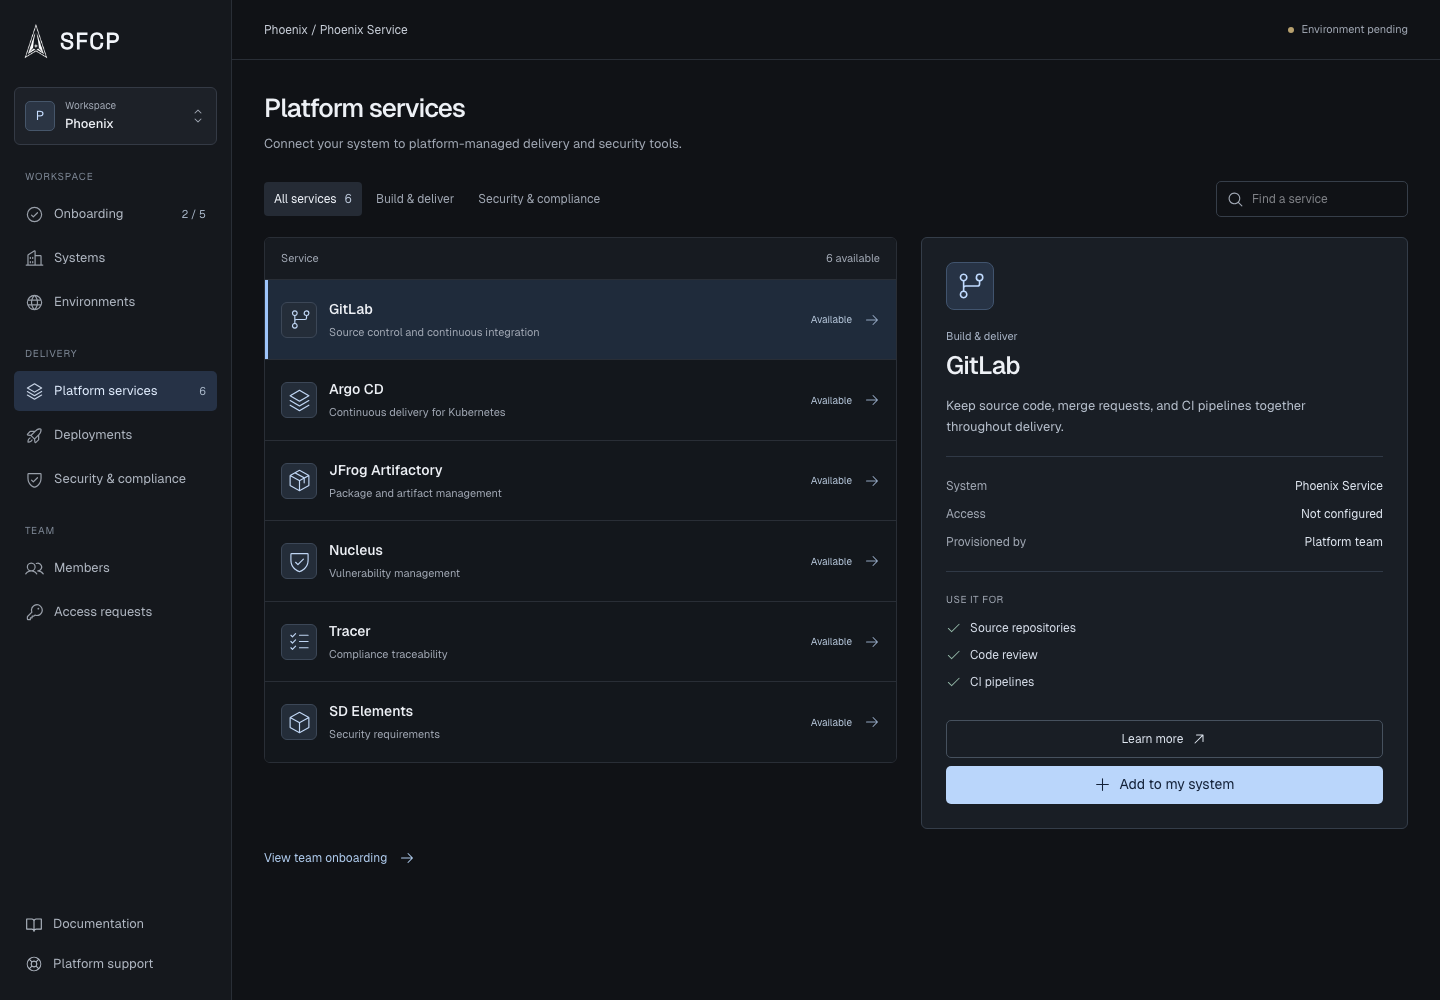
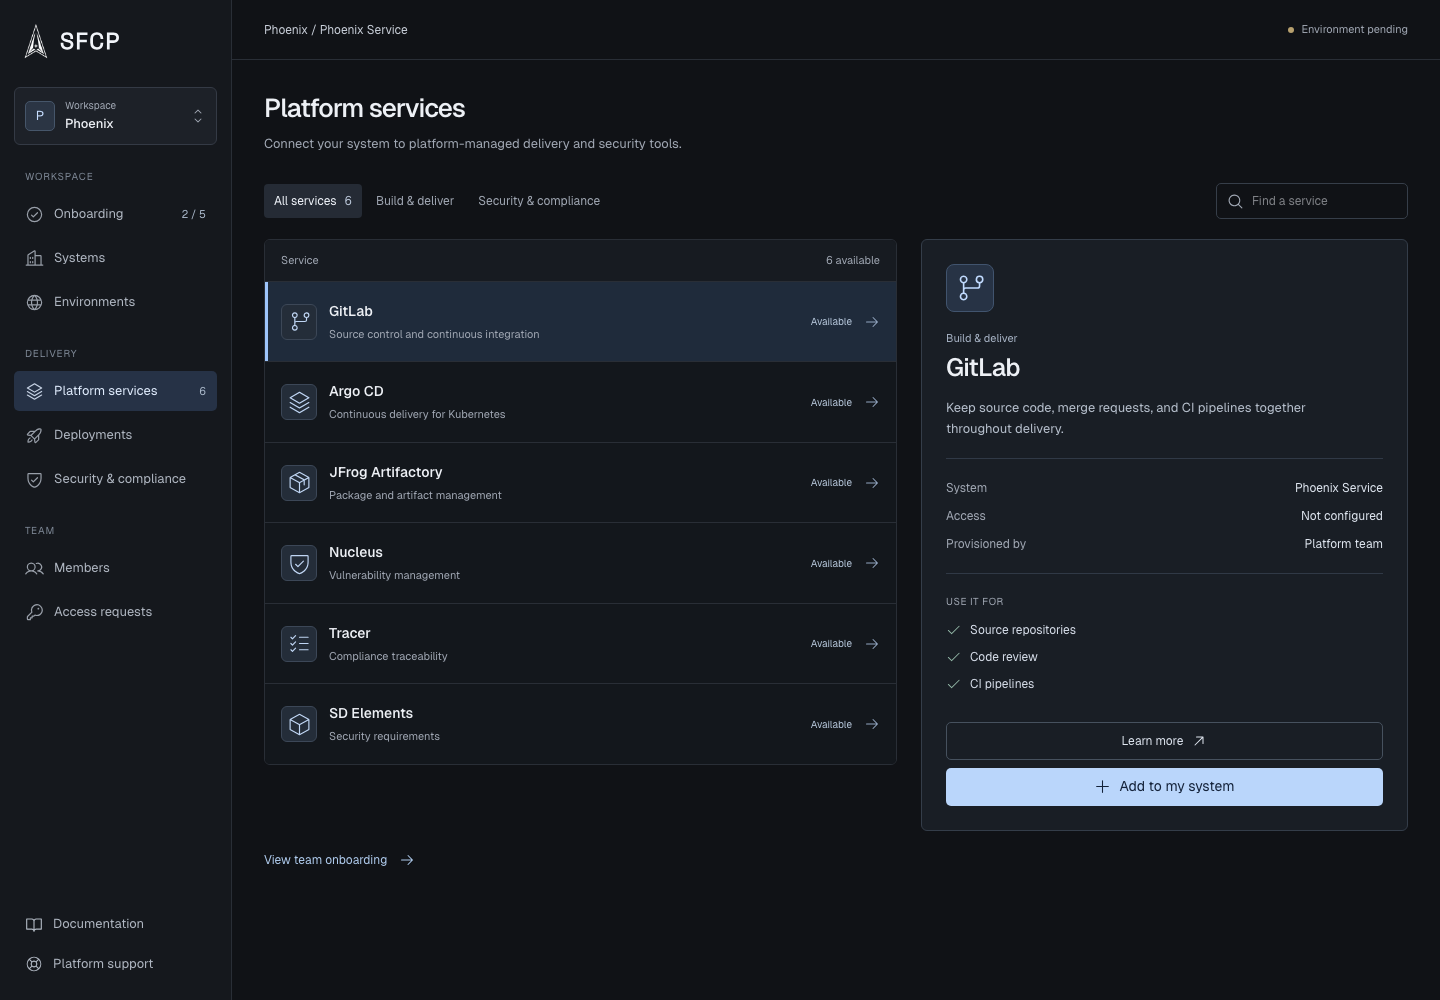
Simplify SFCP onboarding layout

diff --git a/src/components/studies/space-force.tsx b/src/components/studies/space-force.tsx
@@ -88,7 +88,7 @@ export function SpaceForceStudy({ screen }: { screen: string }) {
 
         <main id="main" className={styles.content}>
           <div className={styles.pageTitle}>
-            <div><h1>{isServices ? "Platform services" : "Team onboarding"}</h1><p>{isServices ? "Connect your system to platform-managed delivery and security tools." : "Track access, approval, and provisioning for Phoenix Service."}</p></div>
+            <div><h1>{isServices ? "Platform services" : "Team onboarding"}</h1>{isServices && <p>Connect your system to platform-managed delivery and security tools.</p>}</div>
           </div>
 
           {isServices ? (
@@ -127,7 +127,7 @@ export function SpaceForceStudy({ screen }: { screen: string }) {
             <>
               <div className={styles.onboardingLayout}>
               <section className={styles.journey} aria-label="Onboarding stages">
-                <div className={styles.journeyHeader}><strong>Onboarding</strong><span>2 of 5 complete</span></div>
+                <div className={styles.journeyHeader}><span>2 of 5 steps complete</span></div>
                 <div className={styles.stageTrack}>
                   {stages.map((stage, index) => <button key={stage.name} onClick={() => setSelectedStage(index)} aria-label={`${stage.name}: ${stage.state}`} aria-current={index === 2 ? "step" : undefined} aria-pressed={selectedStage === index} className={`${styles.stage} ${index < 2 ? styles.stageComplete : ""} ${index === 2 ? styles.stageCurrent : ""} ${selectedStage === index ? styles.stageSelected : ""}`}><span className={styles.stageRail} /><span className={styles.stageNumber}>{index < 2 ? <Check size={14} weight="bold" /> : index + 1}</span><strong>{stage.name}</strong><span className={styles.stageState}>{stage.state}</span></button>)}
                 </div>

diff --git a/src/components/studies/space-force.module.css b/src/components/studies/space-force.module.css
@@ -33,3 +33,7 @@
 @media(max-width:650px){.navigation{display:grid;grid-template-columns:1fr 1fr}.navLabel{grid-column:1/-1}.supportNav{grid-column:1/-1;padding-top:0;display:flex}.brand>span:last-child{font-size:20px}}
 
 @font-face{font-family:"SFCP Brand";src:url("/fonts/space-grotesk.ttf") format("truetype");font-weight:400;font-display:swap}.brand>span:last-child{font-family:"SFCP Brand",sans-serif;font-weight:700;font-size:23px;letter-spacing:.065em}.navigation svg{flex-shrink:0}.navCount{flex-shrink:0}
+
+/* Align the step label with its marker, leaving the state on a second row. */
+.journey{padding:4px 0;border:0;border-radius:0;background:transparent}.journeyHeader{padding:0 4px;margin-bottom:20px}.stage{grid-template-rows:24px auto;align-content:start;row-gap:0;min-height:82px;background:none;border:0;color:inherit}.stageNumber{grid-column:1;grid-row:1;background:#101216}.stage strong{grid-column:2;grid-row:1;align-self:center;line-height:1.3;font-size:13px}.stageState{grid-column:2;grid-row:2;margin-top:4px;font-size:11px}.stageRail{top:32px;bottom:-8px}.requestRecord{background:transparent;border-left:0;border-right:0;border-radius:0}.pageTitle{margin-bottom:30px}
+@media(max-width:800px){.journey{padding:0}.stage{min-height:68px}.onboardingLayout{gap:28px}}
